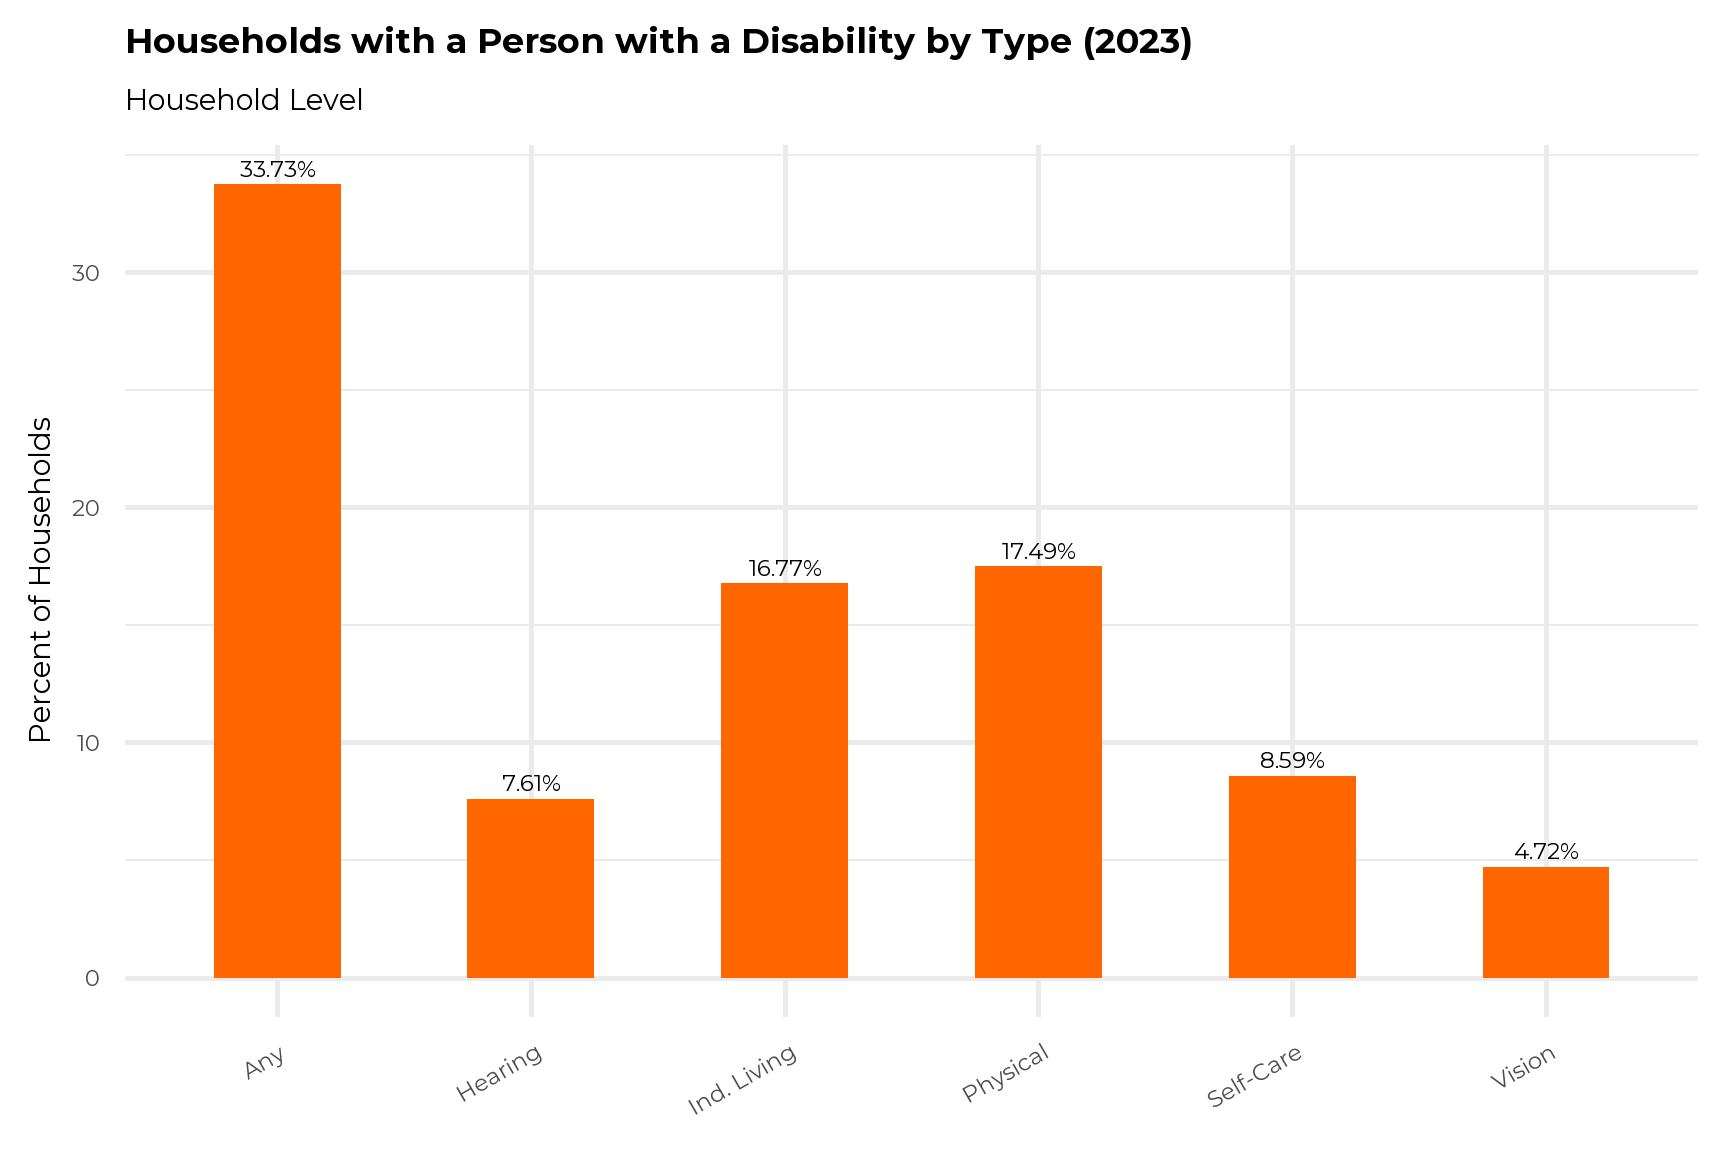
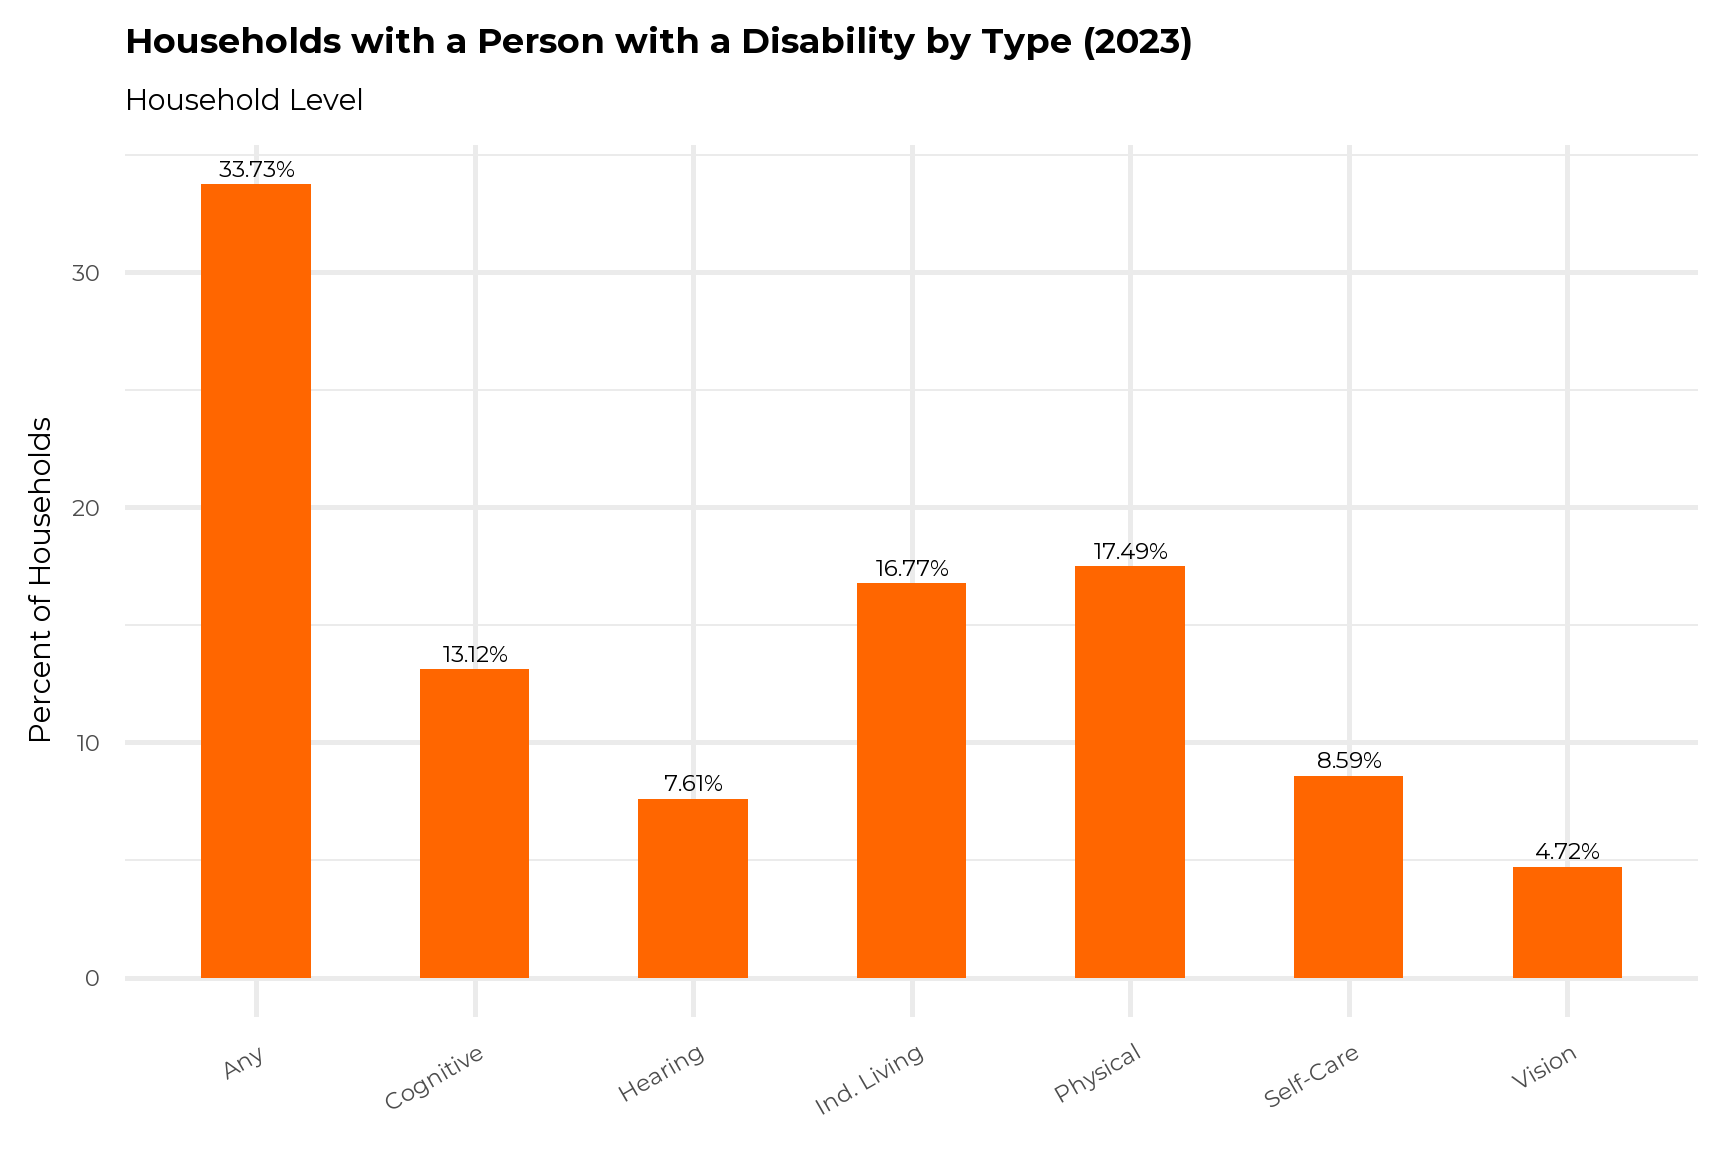
update overall>household to include cognitive

diff --git a/docs/index.html b/docs/index.html
@@ -10,7 +10,7 @@
 
 
 
-<meta name="date" content="2025-11-25" />
+<meta name="date" content="2026-01-21" />
 
 <title>Accessible Housing</title>
 
@@ -253,7 +253,7 @@ div.tocify {
 
 
 <h1 class="title toc-ignore">Accessible Housing</h1>
-<h4 class="date">2025-11-25</h4>
+<h4 class="date">2026-01-21</h4>
 
 </div>
 
